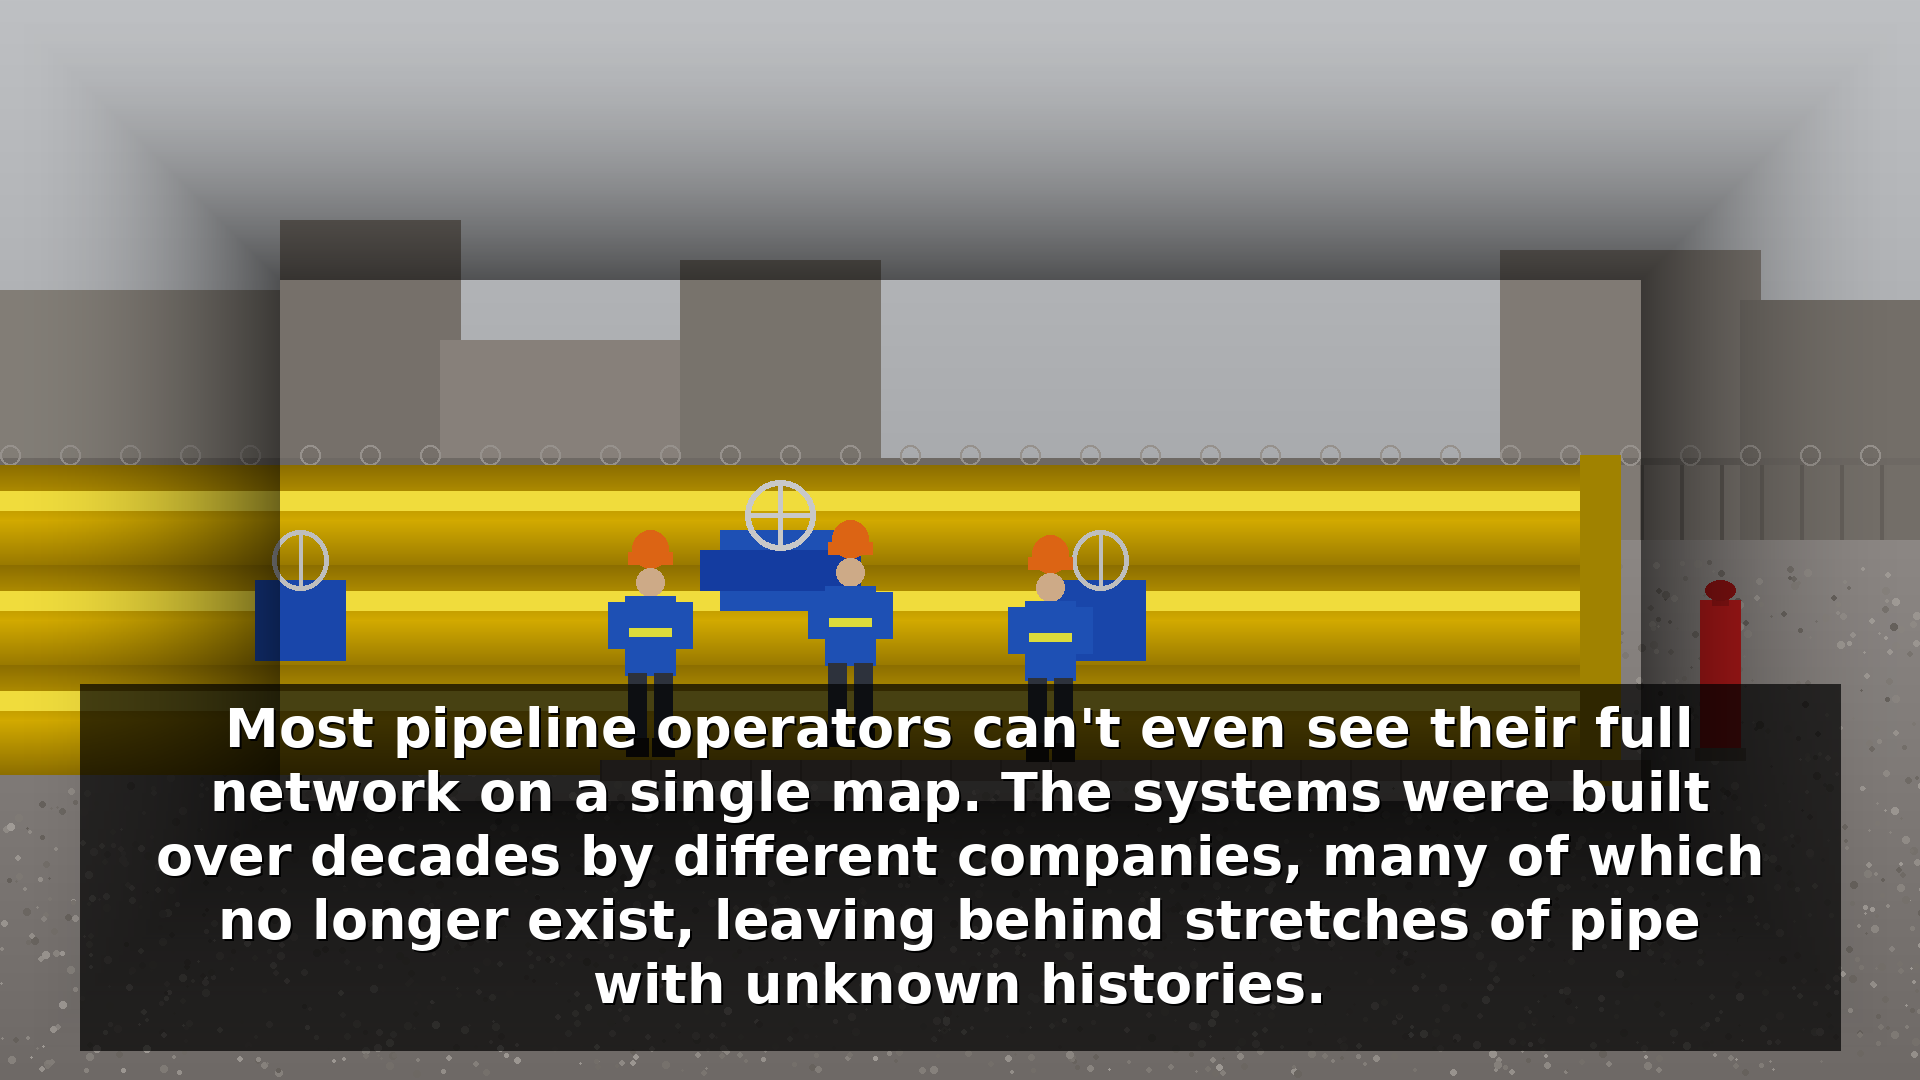
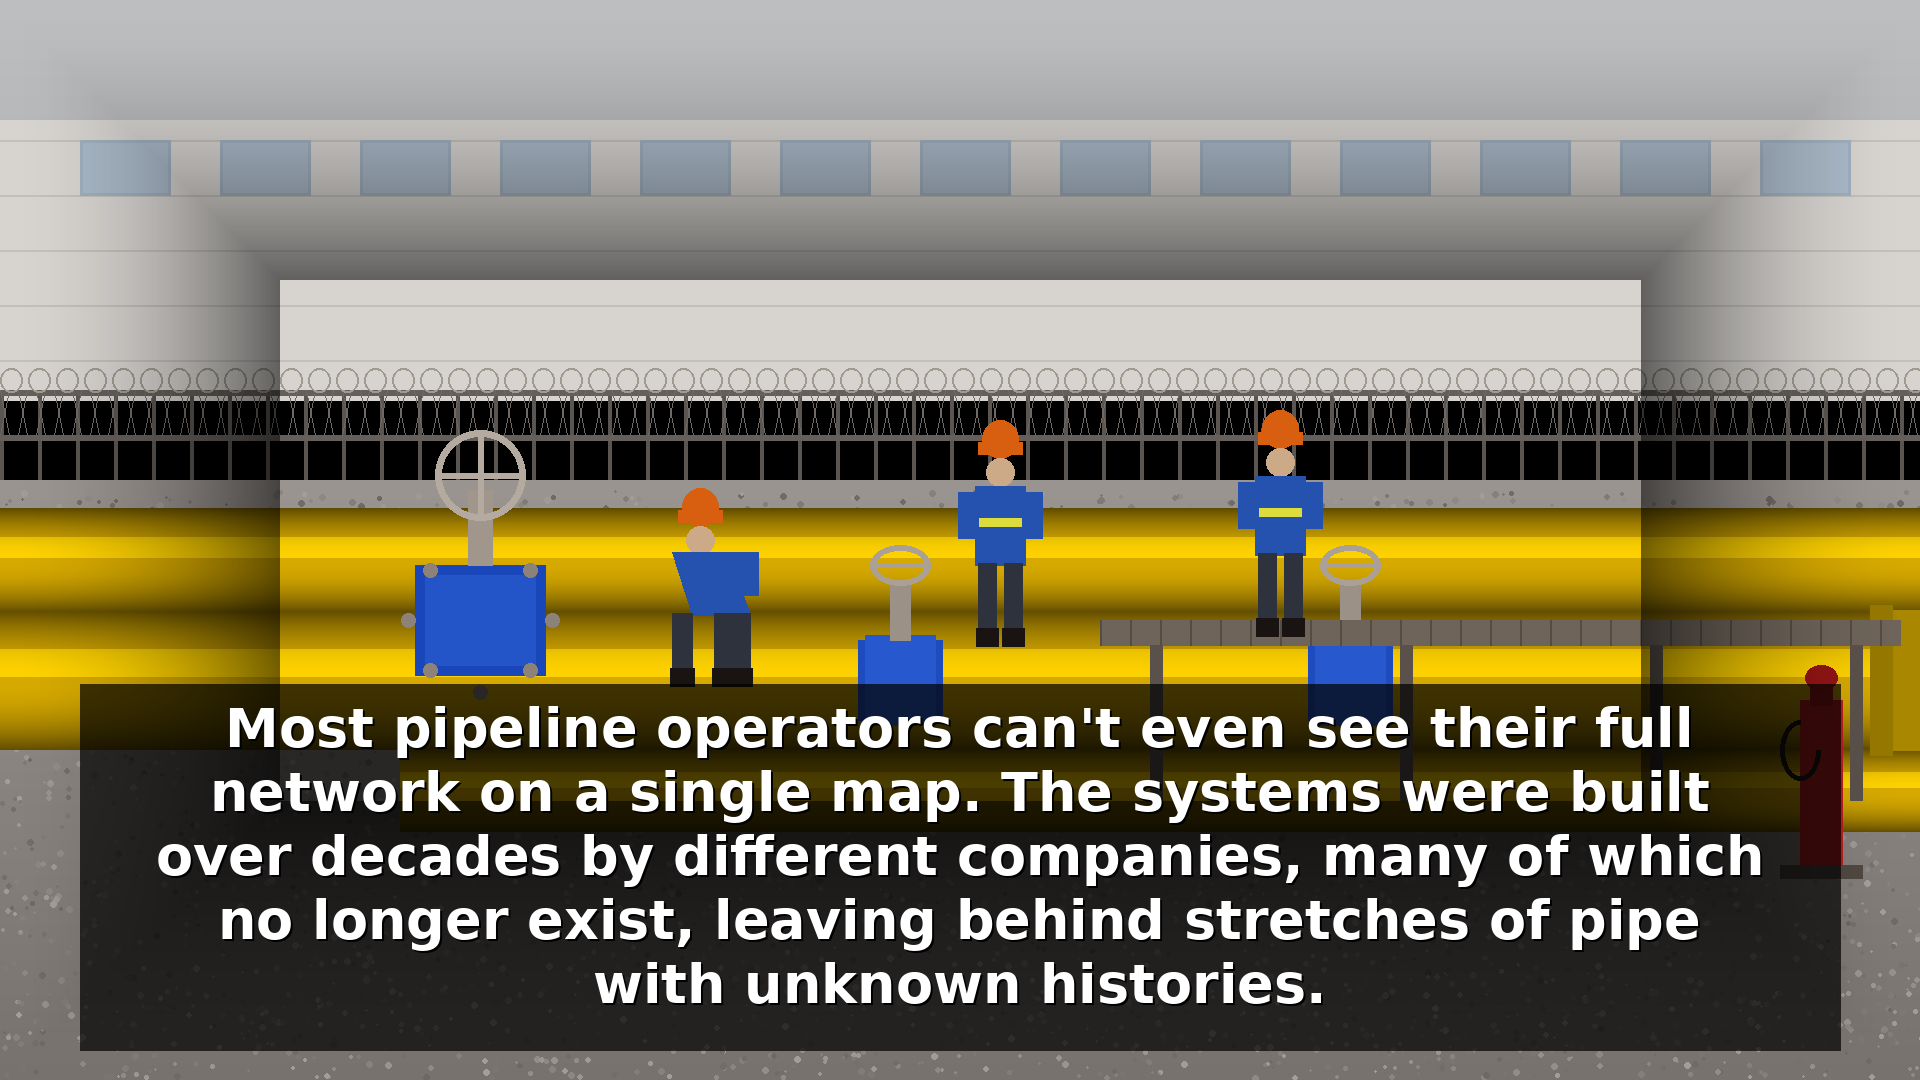
Commit updated gas pipeline clips, images, and Mason story assets
Updated gas pipeline illustrated frames and clips with improved compression
station scene. Added all Mason bedtime story generated assets (audio,
clips, images, concat list).

Claude-Session: https://claude.ai/code/session_0166CSKxEtXBEc55Zaa9PFr3

diff --git a/pipeline/recreate_photos.py b/pipeline/recreate_photos.py
@@ -241,97 +241,135 @@ def make_image2(text=""):
 
 
 # ─── IMAGE 3: Workers at gas compression / metering station ───────────────────
+# Closely based on the reference photo: yellow foreground pipes with blue T-valve,
+# 3 workers in blue coveralls + orange hard hats, white facility + barbed wire fence,
+# gravel ground, red fire extinguisher bottom right, overcast sky.
 def make_image3(text=""):
+    import random
+    rng = random.Random(42)
     img = Image.new("RGB", (W, H))
     draw = ImageDraw.Draw(img)
 
-    # Overcast sky
-    for y in range(H // 2):
-        t = y / (H // 2)
-        c = int(165 + 25 * (1 - t))
-        draw.line([(0, y), (W, y)], fill=(c, c + 2, c + 5))
+    # ── Sky: flat overcast light grey ──
+    for y in range(380):
+        t = y / 380
+        c = int(190 - 20 * t)
+        draw.line([(0, y), (W, y)], fill=(c, c + 1, c + 3))
 
-    # Background industrial facility (hazy)
-    for bx, bw, bh, bc in [
-        (0, 300, 250, (130, 125, 118)),
-        (280, 180, 320, (118, 112, 106)),
-        (440, 250, 200, (135, 128, 122)),
-        (680, 200, 280, (120, 115, 108)),
-        (1500, 260, 290, (128, 122, 116)),
-        (1740, 200, 240, (115, 110, 104)),
-    ]:
-        draw.rectangle([(bx, H // 2 - bh), (bx + bw, H // 2 + 20)], fill=bc)
+    # ── White industrial building (fills upper background) ──
+    draw.rectangle([(0, 120), (W, 400)], fill=(215, 212, 208))
+    # building panels / horizontal lines
+    for py in range(140, 400, 55):
+        draw.line([(0, py), (W, py)], fill=(195, 192, 188), width=2)
+    # window strip near top
+    for wx in range(80, W - 80, 140):
+        draw.rectangle([(wx, 140), (wx + 90, 195)], fill=(160, 175, 190))
+        draw.rectangle([(wx + 3, 143), (wx + 87, 192)], fill=(170, 185, 200))
 
-    # Security fence (top background)
-    for fx in range(0, W, 40):
-        draw.rectangle([(fx, H // 2 - 80), (fx + 3, H // 2 + 10)], fill=(100, 95, 90))
-    draw.rectangle([(0, H // 2 - 82), (W, H // 2 - 76)], fill=(110, 105, 100))
-    # Barbed wire suggestion
-    for fx in range(0, W, 60):
-        draw.ellipse([(fx, H // 2 - 95), (fx + 20, H // 2 - 75)], outline=(150, 145, 140), width=2)
+    # ── Security fence with barbed wire across full width ──
+    fence_y = 390
+    for fx in range(0, W, 38):
+        draw.rectangle([(fx, fence_y), (fx + 3, fence_y + 90)], fill=(90, 85, 80))
+    draw.rectangle([(0, fence_y), (W, fence_y + 5)], fill=(100, 95, 90))
+    draw.rectangle([(0, fence_y + 45), (W, fence_y + 50)], fill=(100, 95, 90))
+    # chain-link mesh suggestion
+    for fx in range(0, W, 18):
+        draw.line([(fx, fence_y), (fx + 9, fence_y + 45)], fill=(110, 105, 100), width=1)
+        draw.line([(fx + 9, fence_y), (fx, fence_y + 45)], fill=(110, 105, 100), width=1)
+    # barbed wire coils on top
+    for fx in range(0, W, 28):
+        draw.ellipse([(fx, fence_y - 22), (fx + 22, fence_y + 2)],
+                     outline=(160, 155, 145), width=2)
 
-    # Gravel ground
-    for y in range(H // 2, H):
-        t = (y - H // 2) / (H // 2)
-        shade = int(140 - 30 * t)
-        draw.line([(0, y), (W, y)], fill=(shade, shade - 5, shade - 8))
-    # gravel texture dots
-    import random
-    rng = random.Random(42)
-    for _ in range(3000):
+    # ── Gravel ground ──
+    for y in range(480, H):
+        t = (y - 480) / (H - 480)
+        shade = int(155 - 35 * t)
+        draw.line([(0, y), (W, y)], fill=(shade, shade - 6, shade - 10))
+    for _ in range(5000):
         gx = rng.randint(0, W)
-        gy = rng.randint(H // 2 + 20, H - 10)
-        gs = rng.randint(2, 7)
-        gc = rng.randint(100, 160)
-        draw.ellipse([(gx, gy), (gx + gs, gy + gs)], fill=(gc, gc - 5, gc - 10))
+        gy = rng.randint(490, H - 5)
+        gs = rng.randint(2, 6)
+        gc = rng.randint(110, 165)
+        draw.ellipse([(gx, gy), (gx + gs, gy + gs)],
+                     fill=(gc, gc - 6, gc - 10))
 
-    # MAIN YELLOW PIPES (horizontal, large, foreground)
-    pipe_y_positions = [520, 620, 720]
-    pipe_r = 55
-    for py in pipe_y_positions:
-        # pipe body
-        for i in range(-pipe_r, pipe_r):
-            t = i / pipe_r
-            shade = int(210 - 70 * abs(t))
-            shade_g = int(170 - 60 * abs(t))
-            draw.line([(0, py + i), (1600, py + i)], fill=(shade, shade_g, 0), width=1)
-        # highlight
-        for i in range(-pipe_r // 3, 0):
-            draw.line([(0, py + i - 10), (1600, py + i - 10)],
-                      fill=(240, 220, 60), width=2)
-        # pipe end flange (right)
-        draw.rectangle([(1580, py - pipe_r - 10), (1620, py + pipe_r + 10)], fill=(160, 130, 0))
+    # ── LARGE YELLOW PIPES — dominant foreground, running left→right ──
+    # Main pipe (biggest, lowest in frame)
+    def draw_pipe_h(y_centre, radius, x0=0, x1=W, yellow=(215, 170, 0)):
+        for i in range(-radius, radius):
+            t = i / radius
+            shade_r = int(yellow[0] * (1 - 0.55 * t * t))
+            shade_g = int(yellow[1] * (1 - 0.55 * t * t))
+            highlight = 40 if -0.45 < t < -0.05 else 0
+            draw.line([(x0, y_centre + i), (x1, y_centre + i)],
+                      fill=(min(255, shade_r + highlight),
+                            min(255, shade_g + highlight), 0))
 
-    # BLUE VALVE / FITTING (centre)
-    valve_x, valve_y = 780, 570
-    draw.rectangle([(valve_x - 60, valve_y - 40), (valve_x + 60, valve_y + 40)], fill=(30, 80, 180))
-    draw.rectangle([(valve_x - 80, valve_y - 20), (valve_x + 80, valve_y + 20)], fill=(20, 60, 160))
-    # valve wheel handle
-    draw.ellipse([(valve_x - 35, valve_y - 90), (valve_x + 35, valve_y - 20)], outline=(200, 200, 200), width=6)
-    draw.line([(valve_x, valve_y - 90), (valve_x, valve_y - 20)], fill=(200, 200, 200), width=5)
-    draw.line([(valve_x - 35, valve_y - 55), (valve_x + 35, valve_y - 55)], fill=(200, 200, 200), width=5)
+    # Three pipes stacked / branching
+    draw_pipe_h(y_centre=680, radius=70)   # main large pipe foreground
+    draw_pipe_h(y_centre=560, radius=52)   # upper secondary pipe
+    draw_pipe_h(y_centre=790, radius=42, x0=400)  # lower branch
 
-    # More valve fittings along pipe
-    for vx in [300, 1100]:
-        draw.rectangle([(vx - 45, 580), (vx + 45, 660)], fill=(25, 70, 170))
-        draw.ellipse([(vx - 28, 530), (vx + 28, 590)], outline=(190, 190, 190), width=5)
-        draw.line([(vx, 530), (vx, 590)], fill=(190, 190, 190), width=4)
+    # ── BLUE T-JUNCTION VALVE — prominent left-of-centre ──
+    vx, vy = 480, 620
+    # vertical riser pipe (yellow)
+    draw_pipe_h(y_centre=vy, radius=48, x0=vx - 52, x1=vx + 52)
+    # Blue valve body
+    draw.rectangle([(vx - 65, vy - 55), (vx + 65, vy + 55)], fill=(25, 70, 185))
+    draw.rectangle([(vx - 55, vy - 45), (vx + 55, vy + 45)], fill=(35, 85, 200))
+    # flange bolts
+    for angle in range(0, 360, 45):
+        import math
+        bx = vx + int(72 * math.cos(math.radians(angle)))
+        by = vy + int(72 * math.sin(math.radians(angle)))
+        draw.ellipse([(bx - 7, by - 7), (bx + 7, by + 7)], fill=(140, 130, 120))
+    # valve stem going up
+    draw.rectangle([(vx - 12, vy - 130), (vx + 12, vy - 55)], fill=(160, 150, 140))
+    # handwheel
+    wheel_y = vy - 145
+    draw.ellipse([(vx - 45, wheel_y - 45), (vx + 45, wheel_y + 45)],
+                 outline=(180, 170, 160), width=7)
+    draw.line([(vx, wheel_y - 45), (vx, wheel_y + 45)], fill=(180, 170, 160), width=6)
+    draw.line([(vx - 45, wheel_y), (vx + 45, wheel_y)], fill=(180, 170, 160), width=6)
 
-    # Red fire extinguisher (right side)
-    draw.rectangle([(1700, 600), (1740, 750)], fill=(180, 25, 25))
-    draw.rectangle([(1712, 585), (1728, 605)], fill=(150, 20, 20))
-    draw.ellipse([(1705, 580), (1735, 600)], fill=(140, 18, 18))
-    draw.rectangle([(1695, 748), (1745, 760)], fill=(100, 90, 80))
+    # ── More valves / fittings along the main pipe ──
+    for fvx in [900, 1350]:
+        draw.rectangle([(fvx - 42, 640), (fvx + 42, 720)], fill=(30, 75, 190))
+        draw.rectangle([(fvx - 35, 635), (fvx + 35, 725)], fill=(40, 88, 205))
+        draw.rectangle([(fvx - 10, 580), (fvx + 10, 640)], fill=(155, 145, 135))
+        draw.ellipse([(fvx - 30, 545), (fvx + 30, 585)],
+                     outline=(170, 160, 150), width=6)
+        draw.line([(fvx - 30, 565), (fvx + 30, 565)], fill=(170, 160, 150), width=5)
 
-    # Platform / walkway
-    draw.rectangle([(600, 760), (1650, 780)], fill=(100, 90, 80))
-    for sx in range(600, 1650, 50):
-        draw.line([(sx, 760), (sx, 780)], fill=(80, 72, 64), width=2)
+    # Pipe end flange on far right
+    draw.rectangle([(W - 30, 610), (W, 750)], fill=(170, 135, 0))
+    draw.rectangle([(W - 50, 605), (W - 28, 755)], fill=(150, 120, 0))
 
-    # Workers (3 of them)
-    _draw_worker_station(draw, 650, 620, jacket=(30, 80, 180), hat=(220, 100, 20))
-    _draw_worker_station(draw, 850, 610, jacket=(30, 80, 180), hat=(220, 100, 20))
-    _draw_worker_station(draw, 1050, 625, jacket=(30, 80, 180), hat=(220, 100, 20))
+    # ── Metal platform / raised walkway (right side) ──
+    draw.rectangle([(1100, 620), (1900, 645)], fill=(110, 100, 90))
+    for sx in range(1100, 1900, 30):
+        draw.line([(sx, 620), (sx, 645)], fill=(85, 76, 68), width=2)
+    # platform supports
+    for px in [1150, 1400, 1650, 1850]:
+        draw.rectangle([(px, 645), (px + 12, 800)], fill=(90, 82, 74))
+
+    # ── Red FIRE EXTINGUISHER — bottom right ──
+    ex, ey = 1800, 700
+    draw.rectangle([(ex, ey), (ex + 42, ey + 170)], fill=(185, 28, 28))
+    draw.rectangle([(ex + 10, ey - 22), (ex + 32, ey + 5)], fill=(155, 22, 22))
+    draw.ellipse([(ex + 5, ey - 35), (ex + 37, ey - 10)], fill=(145, 20, 20))
+    # hose
+    draw.arc([(ex - 20, ey + 20), (ex + 20, ey + 80)], 0, 270, fill=(30, 25, 20), width=5)
+    draw.rectangle([(ex - 20, ey + 165), (ex + 62, ey + 178)], fill=(80, 72, 65))
+
+    # ── WORKERS — blue coveralls, orange hard hats ──
+    # Worker 1: left-centre, leaning over pipe (crouching/bending)
+    _draw_worker_station(draw, 700, 540, jacket=(38, 82, 175), hat=(215, 95, 15), crouching=True)
+    # Worker 2: centre, standing upright working on valve
+    _draw_worker_station(draw, 1000, 510, jacket=(38, 82, 175), hat=(215, 95, 15))
+    # Worker 3: right, standing on platform
+    _draw_worker_station(draw, 1280, 500, jacket=(38, 82, 175), hat=(215, 95, 15))
 
     img = _vignette(img)
     if text:
@@ -339,25 +377,30 @@ def make_image3(text=""):
     return img
 
 
-def _draw_worker_station(draw, x, y, jacket=(50, 100, 200), hat=(220, 100, 20)):
-    # hard hat
-    draw.ellipse([(x - 18, y - 90), (x + 18, y - 52)], fill=hat)
-    draw.rectangle([(x - 22, y - 68), (x + 22, y - 56)], fill=hat)
-    # head
-    draw.ellipse([(x - 14, y - 52), (x + 14, y - 24)], fill=(205, 170, 135))
-    # jacket
-    draw.rectangle([(x - 25, y - 24), (x + 25, y + 55)], fill=jacket)
-    # reflective stripe
-    draw.rectangle([(x - 25, y + 8), (x + 25, y + 16)], fill=(220, 220, 60))
-    # arms
-    draw.rectangle([(x + 22, y - 18), (x + 42, y + 28)], fill=jacket)
-    draw.rectangle([(x - 42, y - 18), (x - 22, y + 28)], fill=jacket)
-    # trousers
-    draw.rectangle([(x - 22, y + 53), (x - 4, y + 120)], fill=(45, 50, 60))
-    draw.rectangle([(x + 4, y + 53), (x + 22, y + 120)], fill=(45, 50, 60))
-    # boots
-    draw.rectangle([(x - 24, y + 118), (x - 2, y + 136)], fill=(25, 20, 18))
-    draw.rectangle([(x + 2, y + 118), (x + 24, y + 136)], fill=(25, 20, 18))
+def _draw_worker_station(draw, x, y, jacket=(50, 100, 200), hat=(220, 100, 20), crouching=False):
+    if crouching:
+        # bent-over pose: torso angled forward
+        draw.ellipse([(x - 18, y - 52), (x + 18, y - 14)], fill=hat)
+        draw.rectangle([(x - 22, y - 30), (x + 22, y - 18)], fill=hat)
+        draw.ellipse([(x - 14, y - 14), (x + 14, y + 14)], fill=(205, 170, 135))
+        draw.polygon([(x - 28, y + 12), (x + 28, y + 12), (x + 50, y + 75), (x - 8, y + 75)], fill=jacket)
+        draw.rectangle([(x - 28, y + 73), (x - 8, y + 130)], fill=(45, 50, 60))
+        draw.rectangle([(x + 14, y + 73), (x + 50, y + 130)], fill=(45, 50, 60))
+        draw.rectangle([(x - 30, y + 128), (x - 6, y + 146)], fill=(25, 20, 18))
+        draw.rectangle([(x + 12, y + 128), (x + 52, y + 146)], fill=(25, 20, 18))
+        draw.rectangle([(x + 26, y + 12), (x + 58, y + 55)], fill=jacket)
+    else:
+        draw.ellipse([(x - 18, y - 90), (x + 18, y - 52)], fill=hat)
+        draw.rectangle([(x - 22, y - 68), (x + 22, y - 56)], fill=hat)
+        draw.ellipse([(x - 14, y - 52), (x + 14, y - 24)], fill=(205, 170, 135))
+        draw.rectangle([(x - 25, y - 24), (x + 25, y + 55)], fill=jacket)
+        draw.rectangle([(x - 25, y + 8), (x + 25, y + 16)], fill=(220, 220, 60))
+        draw.rectangle([(x + 22, y - 18), (x + 42, y + 28)], fill=jacket)
+        draw.rectangle([(x - 42, y - 18), (x - 22, y + 28)], fill=jacket)
+        draw.rectangle([(x - 22, y + 53), (x - 4, y + 120)], fill=(45, 50, 60))
+        draw.rectangle([(x + 4, y + 53), (x + 22, y + 120)], fill=(45, 50, 60))
+        draw.rectangle([(x - 24, y + 118), (x - 2, y + 136)], fill=(25, 20, 18))
+        draw.rectangle([(x + 2, y + 118), (x + 24, y + 136)], fill=(25, 20, 18))
 
 
 def _vignette(img):